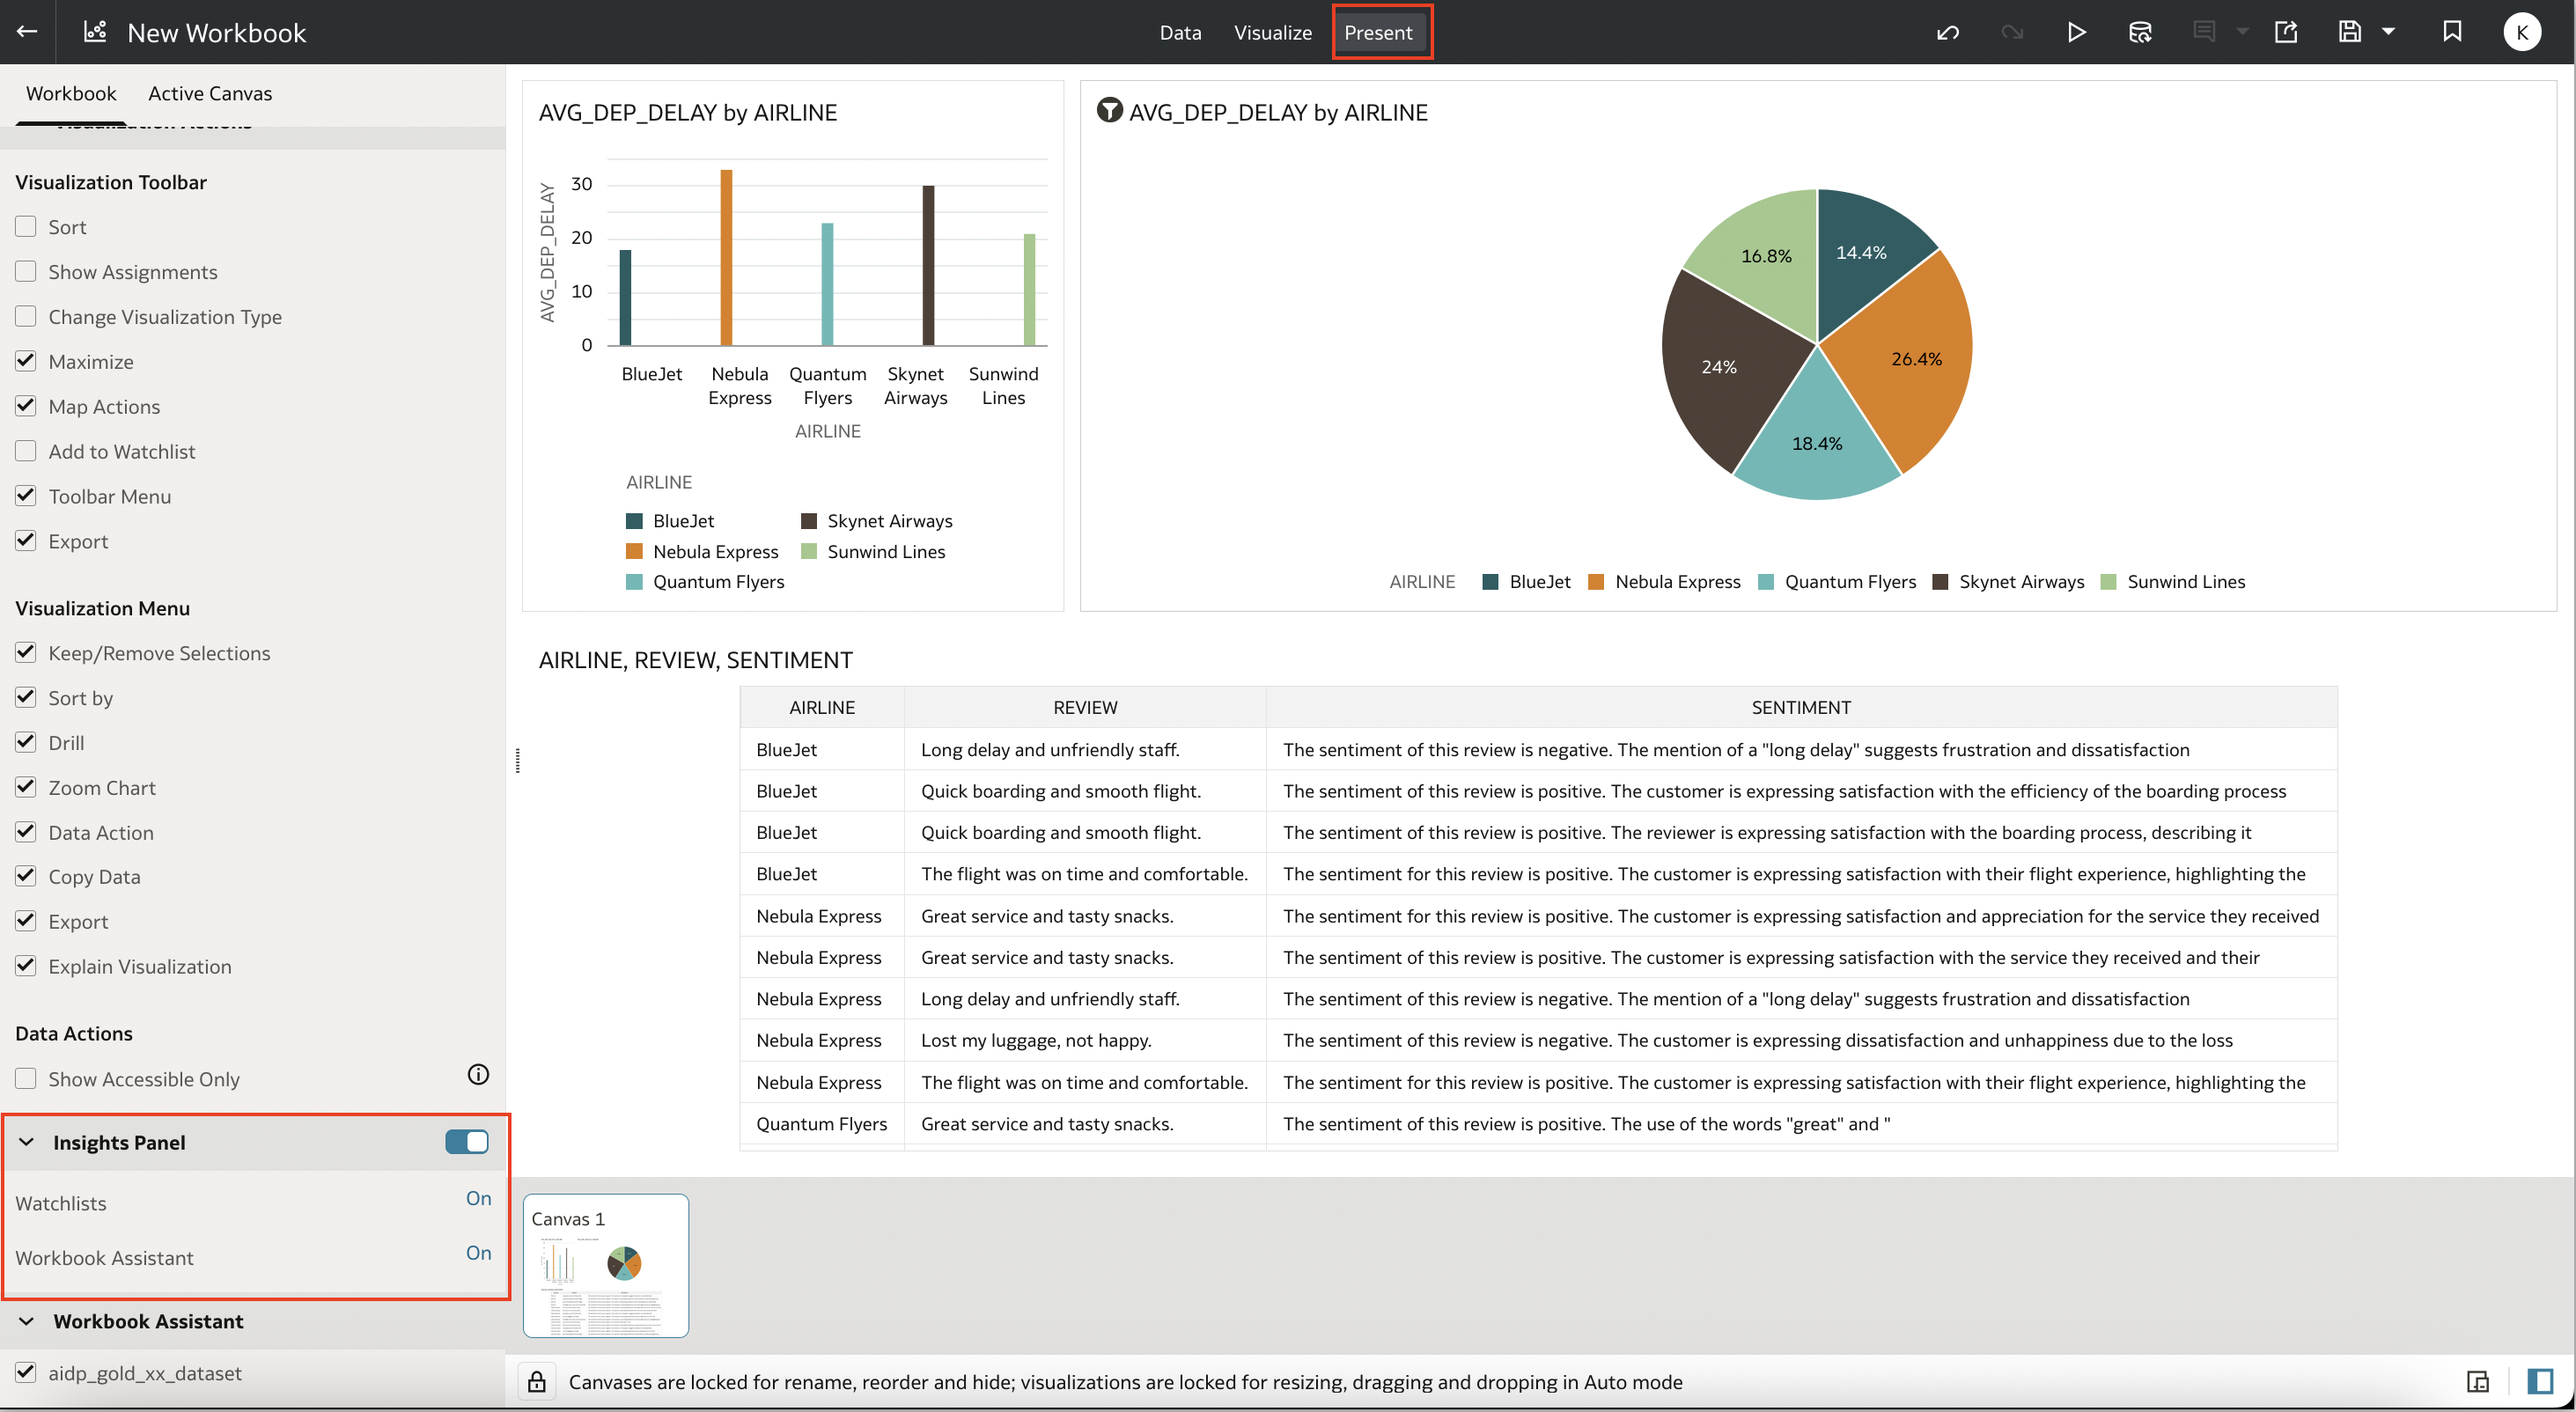
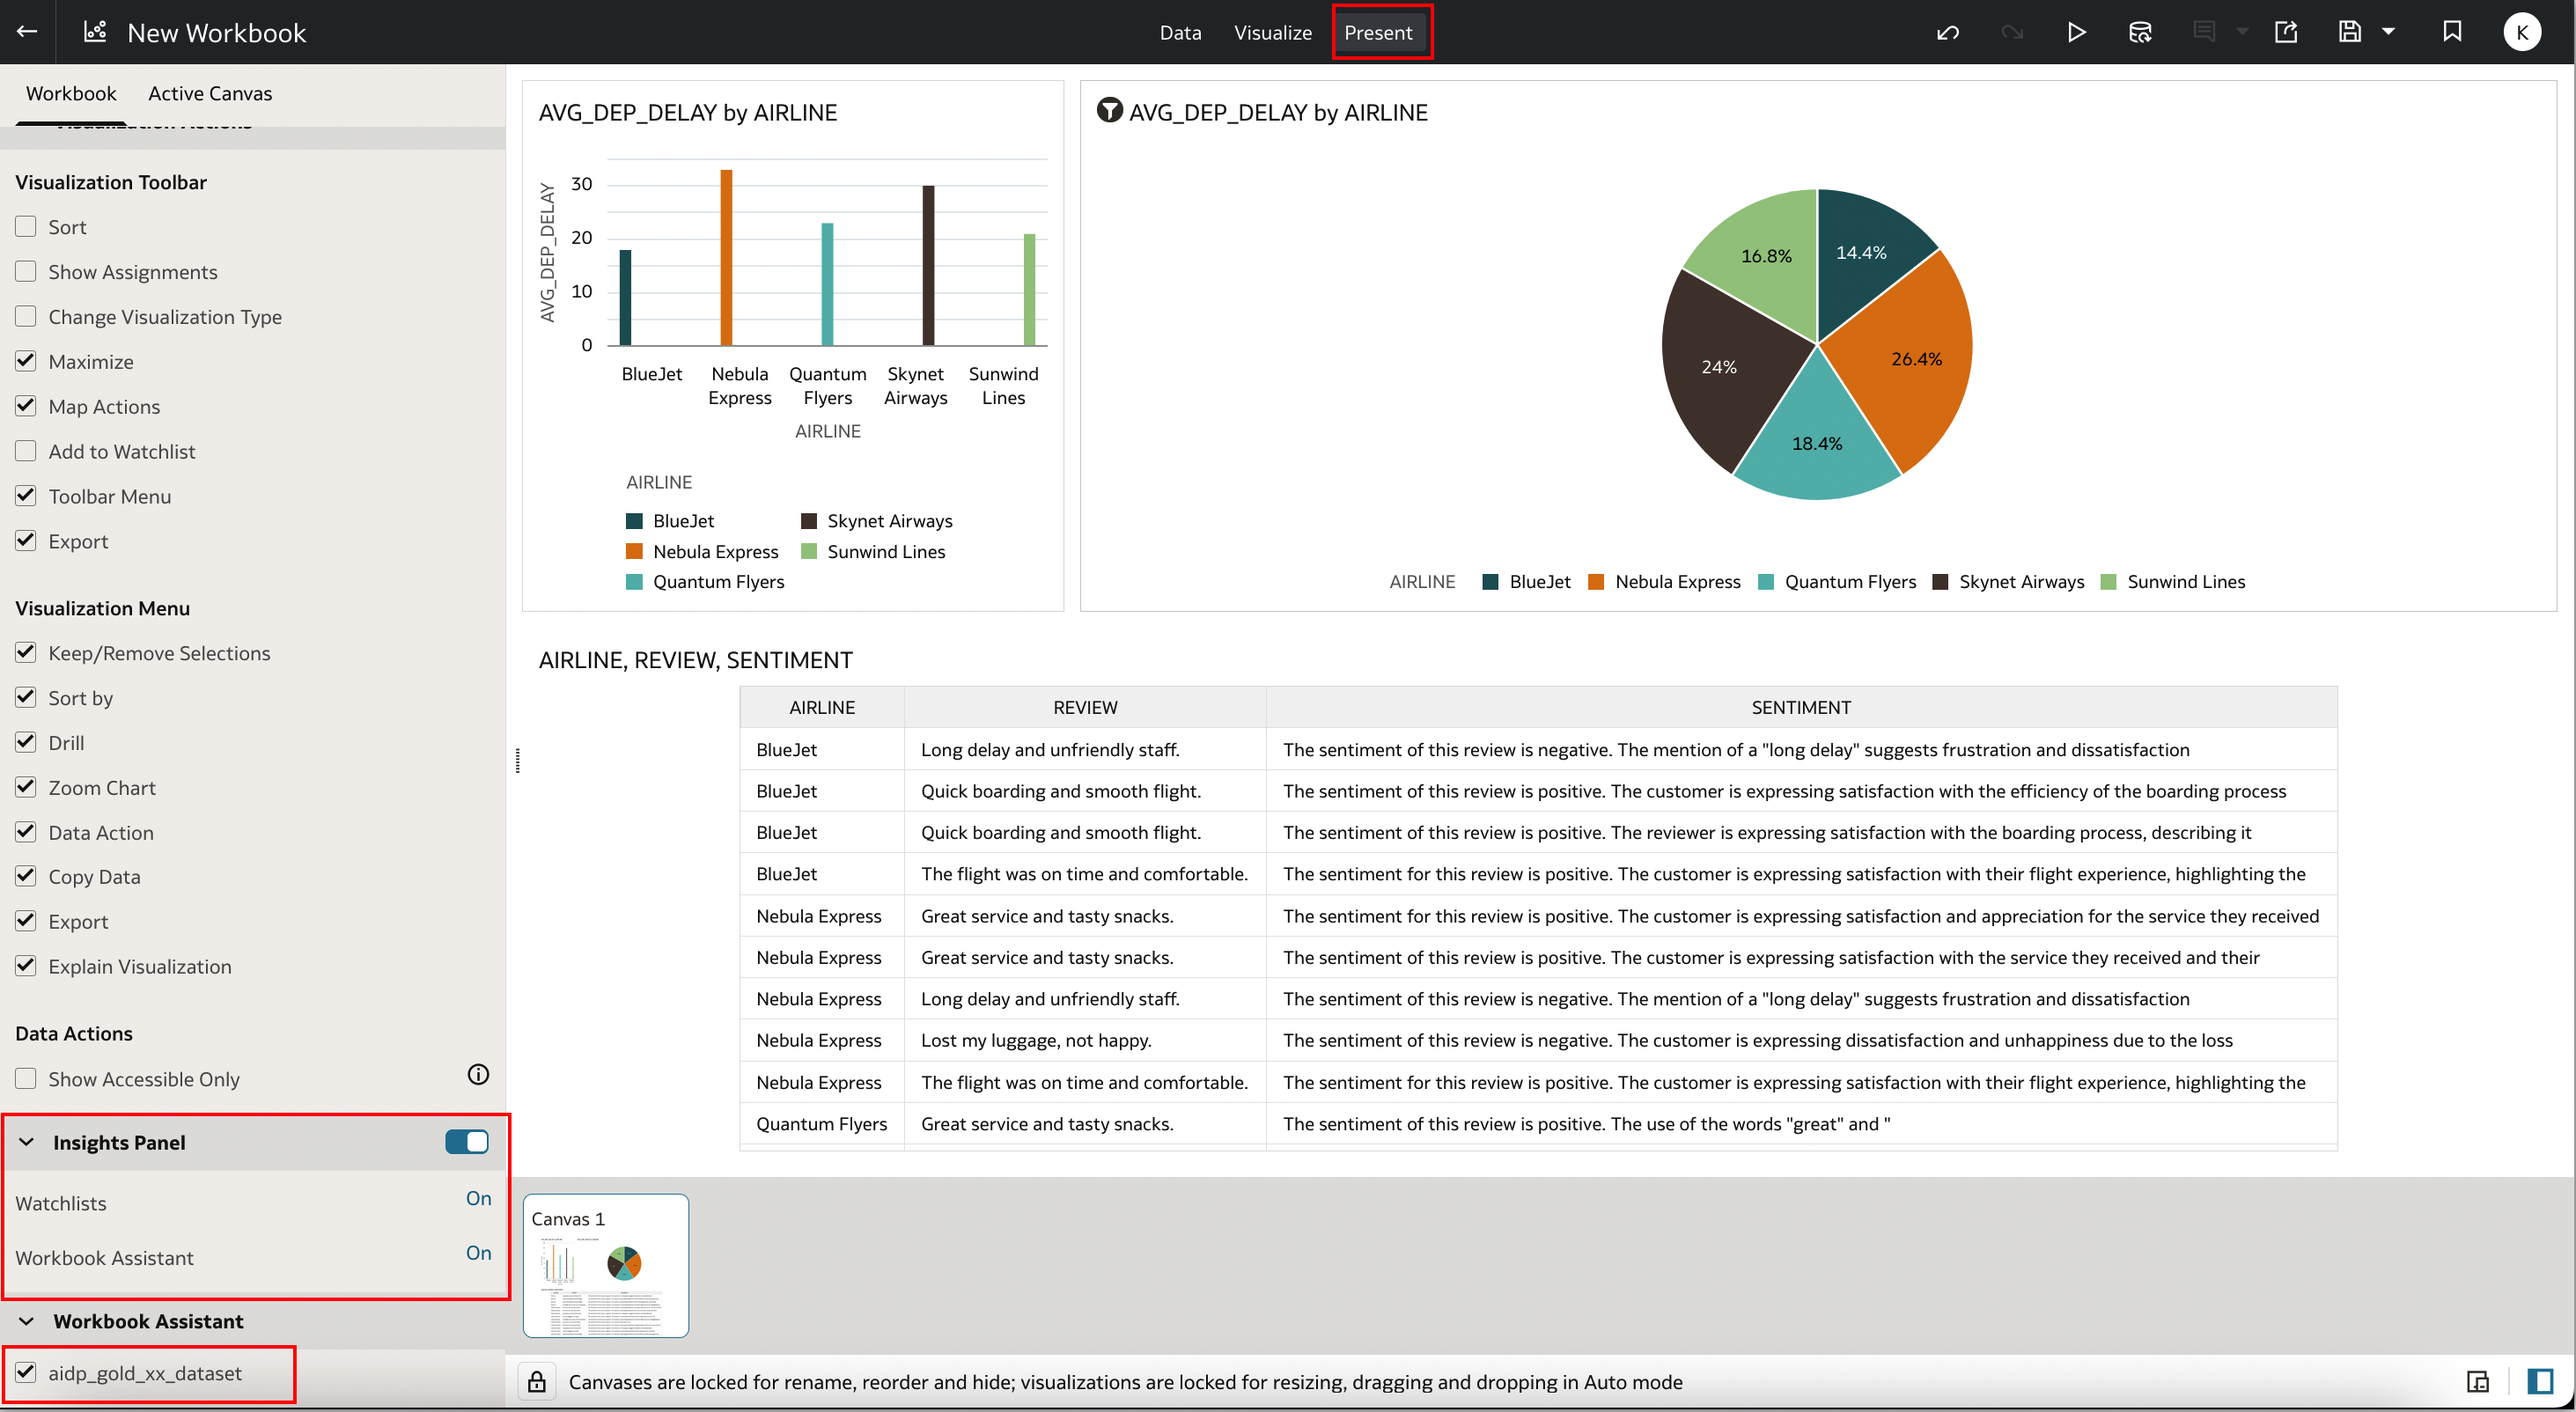
AIDP OAC Update 1

diff --git a/aidp-lakehouse/oac-visualize/oac-visualize.md b/aidp-lakehouse/oac-visualize/oac-visualize.md
@@ -39,7 +39,15 @@ This lab assumes you have:
 
 2. Select **Database connection** and download the wallet for the lakehouse.
 
-![Download Wallet](./images/download-wallet.png)
+![Download Wallet](./images/ai-lakehouse-db-wallet1.png)
+
+3. For Wallet Type 'Instance Wallet', click on 'Download Wallet' button
+
+![Download Wallet](./images/ai-lakehouse-db-wallet2.png)
+
+4. Set the wallet password, and click the 'Download' button.
+
+![Download Wallet](./images/ai-lakehouse-db-wallet3.png)
 
 ---
 
@@ -136,11 +144,23 @@ This lab assumes you have:
 
 ![GenAI](./images/oac-genai3.png)
 
-4. From the OAC Home Page, open the OAC Workbook "aidp-gold-xx-workbook" (that you created) in edit mode
+4. From the OAC Home Page, open the OAC Workbook "aidp-gold-xx-workbook" (that you created)
 
-5. In the  "Present" tab, ensure that the "Workbook Assistant" is turned "On" in the Insights Panel
+![Assistant1](./images/aidp-oac-workbook5.png)
+
+![Assistant1](./images/aidp-oac-workbook6.png)
+
+5. CLick the 'edit' mode
+
+![Assistant1](./images/aidp-oac-workbook7.png)
+
+6. Click the  "Present" tab. In the left panel, scroll down to the 'Insights Panel'. Ensure that the "Workbook Assistant" is turned "On" in the 'Insights Panel', and your dataset 'aidp_gold_xx_dataset' is checked.
 
 ![Assistant1](./images/aidp-oac-workbook2.png)
+
+7. Save the updated workbook
+
+![Assistant1](./images/aidp-oac-workbook8.png)
 
 ---
 
